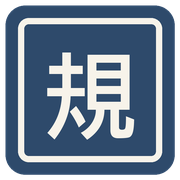
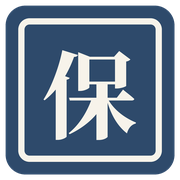
保障資訊通：改名（HK Protection Compass、印章「保」）＋正式公開（關預覽模式）

diff --git a/給理財資訊通的連結卡.html b/給理財資訊通的連結卡.html
@@ -6,25 +6,25 @@
   1. 打開理財資訊通 site/index.html，搵「計完之後，仲可以睇」嗰個 <div class="grid cols-2">
   2. 將下面【中文版】成段貼喺入面任何一張 card 之後
   3. 英文版：site/en/index.html 同一位置貼【英文版】
-  4. 網址：人生規劃通正式公開（合規部批咗）之前，請唔好加，因為預覽版唔應該公開分享
+  4. 網址：保障資訊通正式公開（合規部批咗）之前，請唔好加，因為預覽版唔應該公開分享
      開好 Cloudflare 項目之後，將 https://codychan-life.pages.dev 換成真網址
 
-  印章用靛藍（人生規劃通嘅顏色），一眼分到係另一個網站；class 全部係理財資訊通已有嘅樣式，唔使改 CSS。
+  印章用靛藍（保障資訊通嘅顏色），一眼分到係另一個網站；class 全部係理財資訊通已有嘅樣式，唔使改 CSS。
   ============================================================
 -->
 
 <!-- 【中文版】 -->
 <a class="card tool-card" href="https://codychan-life.pages.dev/" target="_blank" rel="noopener">
-  <span class="seal sm" aria-hidden="true" style="background:#2E4A6B;box-shadow:inset 0 0 0 3px #2E4A6B,inset 0 0 0 4.5px rgba(247,243,234,.9)">規</span>
-  <h3>姊妹網站：人生規劃通 ↗</h3>
+  <span class="seal sm" aria-hidden="true" style="background:#2E4A6B;box-shadow:inset 0 0 0 3px #2E4A6B,inset 0 0 0 4.5px rgba(247,243,234,.9)">保</span>
+  <h3>姊妹網站：保障資訊通 ↗</h3>
   <p>醫療及危疾保費比較、醫療儲備、退休要儲幾多，仲有醫療收費同政策資訊（保障資訊）。</p>
   <span class="go">睇吓 →</span>
 </a>
 
 <!-- 【英文版】 -->
 <a class="card tool-card" href="https://codychan-life.pages.dev/en/" target="_blank" rel="noopener">
-  <span class="seal sm" aria-hidden="true" style="background:#2E4A6B;box-shadow:inset 0 0 0 3px #2E4A6B,inset 0 0 0 4.5px rgba(247,243,234,.9)">規</span>
-  <h3>Sister site: HK Life Compass ↗</h3>
+  <span class="seal sm" aria-hidden="true" style="background:#2E4A6B;box-shadow:inset 0 0 0 3px #2E4A6B,inset 0 0 0 4.5px rgba(247,243,234,.9)">保</span>
+  <h3>Sister site: HK Protection Compass ↗</h3>
   <p>Compare medical and critical illness premiums, size your medical safety net, plan retirement, and check medical costs and policy. A few questions, clear answers.</p>
   <span class="go">Take a look →</span>
 </a>

diff --git a/en/about/index.html b/en/about/index.html
@@ -3,8 +3,8 @@
 <head>
   <meta charset="utf-8">
   <meta name="viewport" content="width=device-width, initial-scale=1, viewport-fit=cover">
-  <title>About Cody Chan and our sources | HK Life Compass</title>
-  <meta name="description" content="HK Life Compass is run by Hong Kong insurance and financial planning consultant Cody Chan. How the information is sourced, checked and updated, how products are compared, and my disclosure.">
+  <title>About Cody Chan and our sources | HK Protection Compass</title>
+  <meta name="description" content="HK Protection Compass is run by Hong Kong insurance and financial planning consultant Cody Chan. How the information is sourced, checked and updated, how products are compared, and my disclosure.">
   <meta name="theme-color" content="#F3ECDD">
   <link rel="stylesheet" href="/assets/css/style.css">
 </head>
@@ -20,7 +20,7 @@
       <div>
         <h2>Who am I?</h2>
         <p>I'm Cody Chan, an insurance and financial planning consultant in Hong Kong. Many employees know they should think about medical cover, retirement and tax, but policy terms are long and the numbers are many, so it's hard to work out on your own.</p>
-        <p>So alongside my everyday money site, HK Money Compass, I built HK Life Compass. It focuses on medical cover, critical illness, a medical safety net and retirement. To talk it through, find me on IG <a href="https://www.instagram.com/codychan813/" target="_blank" rel="noopener">@codychan813</a> or <a href="/en/book/">book a free chat</a>.</p>
+        <p>So alongside my everyday money site, HK Money Compass, I built HK Protection Compass. It focuses on medical cover, critical illness, a medical safety net and retirement. To talk it through, find me on IG <a href="https://www.instagram.com/codychan813/" target="_blank" rel="noopener">@codychan813</a> or <a href="/en/book/">book a free chat</a>.</p>
       </div>
       <div data-avatar></div>
     </section>

diff --git a/about/index.html b/about/index.html
@@ -3,8 +3,8 @@
 <head>
   <meta charset="utf-8">
   <meta name="viewport" content="width=device-width, initial-scale=1, viewport-fit=cover">
-  <title>關於 Cody Chan 及資料來源｜香港地一站式人生規劃通</title>
-  <meta name="description" content="人生規劃通由香港保險理財顧問 Cody Chan 營運。了解網站資料來源、核實及更新方法、產品比較原則同利益申報。">
+  <title>關於 Cody Chan 及資料來源｜香港地一站式保障資訊通</title>
+  <meta name="description" content="保障資訊通由香港保險理財顧問 Cody Chan 營運。了解網站資料來源、核實及更新方法、產品比較原則同利益申報。">
   <meta name="theme-color" content="#F3ECDD">
   <link rel="stylesheet" href="/assets/css/style.css">
 </head>
@@ -20,7 +20,7 @@
       <div>
         <h2>我係邊個？</h2>
         <p>我係 Cody Chan，香港保險理財顧問。好多打工仔知道醫療保障、退休、交稅要諗，但產品條款長、數字多，好難自己計清楚。</p>
-        <p>所以我喺日常理財網站「理財資訊通」之外，再整咗呢個「人生規劃通」：專講醫療保障、危疾、醫療儲備同退休。想再傾，可以喺 IG <a href="https://www.instagram.com/codychan813/" target="_blank" rel="noopener">@codychan813</a> 搵我，或者<a href="/book/">預約免費傾談</a>。</p>
+        <p>所以我喺日常理財網站「理財資訊通」之外，再整咗呢個「保障資訊通」：專講醫療保障、危疾、醫療儲備同退休。想再傾，可以喺 IG <a href="https://www.instagram.com/codychan813/" target="_blank" rel="noopener">@codychan813</a> 搵我，或者<a href="/book/">預約免費傾談</a>。</p>
       </div>
       <div data-avatar></div>
     </section>

diff --git a/en/index.html b/en/index.html
@@ -3,7 +3,7 @@
 <head>
   <meta charset="utf-8">
   <meta name="viewport" content="width=device-width, initial-scale=1, viewport-fit=cover">
-  <title>HK Life Compass by Cody Chan | Medical, critical illness and retirement planning tools</title>
+  <title>HK Protection Compass by Cody Chan | Medical, critical illness and retirement planning tools</title>
   <meta name="description" content="Planning tools for Hong Kong employees: compare medical and critical illness premiums, size your medical safety net, see how much you need to retire, and check Hong Kong medical costs and policy. Everything is calculated on your own device.">
   <meta name="theme-color" content="#F3ECDD">
   <link rel="stylesheet" href="/assets/css/style.css">
@@ -12,10 +12,10 @@
 <main>
   <div class="wrap stack">
     <section class="hero landing-hero">
-      <div class="kicker">HK LIFE COMPASS</div>
+      <div class="kicker">HK PROTECTION COMPASS</div>
       <h1>Hospital bills, critical illness, retirement:<br>have you done the maths?</h1>
       <p class="lead">Is your work medical cover enough? Between jobs you actually have none. How critical illness plans differ, how much to save for retirement: answer a few questions and see. No big talk, just the numbers.</p>
-      <div class="by"><span data-seal="規"></span>By Cody Chan · Insurance and financial planning consultant, Hong Kong</div>
+      <div class="by"><span data-seal="保"></span>By Cody Chan · Insurance and financial planning consultant, Hong Kong</div>
       <div class="hero-actions">
         <a class="btn shu lg" href="#start">Not sure where to start? 3 questions →</a>
         <a class="btn secondary lg" href="/en/book/">Book a free chat</a>

diff --git a/index.html b/index.html
@@ -3,7 +3,7 @@
 <head>
   <meta charset="utf-8">
   <meta name="viewport" content="width=device-width, initial-scale=1, viewport-fit=cover">
-  <title>香港地一站式人生規劃通 By Cody Chan｜醫療、危疾、退休規劃工具</title>
+  <title>香港地一站式保障資訊通 By Cody Chan｜醫療、危疾、退休規劃工具</title>
   <meta name="description" content="香港打工仔嘅人生規劃工具：醫療及危疾保費比較、醫療儲備、退休要儲幾多，仲有香港醫療收費同政策資訊。答幾條問題就有清楚結果，資料只喺你部機計。">
   <meta name="theme-color" content="#F3ECDD">
   <link rel="stylesheet" href="/assets/css/style.css">
@@ -12,10 +12,10 @@
 <main>
   <div class="wrap stack">
     <section class="hero landing-hero">
-      <div class="kicker">香港地一站式人生規劃通</div>
+      <div class="kicker">香港地一站式保障資訊通</div>
       <h1>入院、危疾、退休<br>你計清楚未？</h1>
       <p class="lead">公司醫保夠唔夠用？轉工嗰陣其實係冇保障㗎。危疾計劃有咩分別、退休要儲幾多，答幾條問題就有答案。唔講大道理，直接計。</p>
-      <div class="by"><span data-seal="規"></span>By Cody Chan・香港保險理財顧問</div>
+      <div class="by"><span data-seal="保"></span>By Cody Chan・香港保險理財顧問</div>
       <div class="hero-actions">
         <a class="btn shu lg" href="#start">唔知由邊度開始？答 3 條問題 →</a>
         <a class="btn secondary lg" href="/book/">預約免費傾談</a>

diff --git a/assets/js/config.js b/assets/js/config.js
@@ -3,15 +3,15 @@
 // （網站名稱、IG、姊妹網站亦要喺 scripts/build.py 頂部同步改）
 // ============================================================
 export const SITE = {
-  name: '香港地一站式人生規劃通',
-  shortName: '人生規劃通',
-  nameEn: 'HK Life Compass',
+  name: '香港地一站式保障資訊通',
+  shortName: '保障資訊通',
+  nameEn: 'HK Protection Compass',
   byline: 'By Cody Chan',
   ig: 'codychan813',
   phone: '46254001',
   whatsapp: '85246254001',
-  whatsappText: '你好 Cody，我喺人生規劃通網站見到，想預約免費傾談。',
-  whatsappTextEn: 'Hi Cody, I found you on HK Life Compass and would like to book a free chat.',
+  whatsappText: '你好 Cody，我喺保障資訊通網站見到，想預約免費傾談。',
+  whatsappTextEn: 'Hi Cody, I found you on HK Protection Compass and would like to book a free chat.',
   calendarUrl: 'https://calendar.app.google/QXA112toHCRAD5qr9',   // 同理財資訊通同一條
   sisterName: '理財資訊通',
   sisterNameEn: 'HK Money Compass',

diff --git a/en/insurance/index.html b/en/insurance/index.html
@@ -3,7 +3,7 @@
 <head>
   <meta charset="utf-8">
   <meta name="viewport" content="width=device-width, initial-scale=1, viewport-fit=cover">
-  <title>Hong Kong medical costs 2026: public hospital fees, medical inflation, cancer figures | HK Life Compass</title>
+  <title>Hong Kong medical costs 2026: public hospital fees, medical inflation, cancer figures | HK Protection Compass</title>
   <meta name="description" content="Hong Kong's new 2026 public hospital fees, medical inflation forecasts, the price gap for private hospital procedures, the latest cancer statistics and healthcare policy updates, each with its official source and date.">
   <meta name="theme-color" content="#F3ECDD">
   <link rel="stylesheet" href="/assets/css/style.css">

diff --git a/insurance/index.html b/insurance/index.html
@@ -3,7 +3,7 @@
 <head>
   <meta charset="utf-8">
   <meta name="viewport" content="width=device-width, initial-scale=1, viewport-fit=cover">
-  <title>香港醫療費用 2026：公立醫院收費、醫療通脹、癌症數字｜香港地一站式人生規劃通</title>
+  <title>香港醫療費用 2026：公立醫院收費、醫療通脹、癌症數字｜香港地一站式保障資訊通</title>
   <meta name="description" content="香港公立醫院 2026 年新收費、醫療通脹預測、私家醫院手術收費差距、最新癌症統計同政府醫療政策更新，每項附官方來源同資料日期。">
   <meta name="theme-color" content="#F3ECDD">
   <link rel="stylesheet" href="/assets/css/style.css">

diff --git a/en/compare/index.html b/en/compare/index.html
@@ -3,7 +3,7 @@
 <head>
   <meta charset="utf-8">
   <meta name="viewport" content="width=device-width, initial-scale=1, viewport-fit=cover">
-  <title>Compare medical and critical illness insurance premiums | HK Life Compass</title>
+  <title>Compare medical and critical illness insurance premiums | HK Protection Compass</title>
   <meta name="description" content="Enter your age and sex to see annual premiums for VHIS Standard Plans (official Health Bureau figures) and critical illness plans, benefit limits, how premiums change with age and total premiums. Factual listing with sources and update dates.">
   <meta name="theme-color" content="#F3ECDD">
   <link rel="stylesheet" href="/assets/css/style.css">

diff --git a/en/disclaimer/index.html b/en/disclaimer/index.html
@@ -3,8 +3,8 @@
 <head>
   <meta charset="utf-8">
   <meta name="viewport" content="width=device-width, initial-scale=1, viewport-fit=cover">
-  <title>Disclaimer and privacy policy | HK Life Compass</title>
-  <meta name="description" content="HK Life Compass disclaimer, product comparison principles, privacy policy and personal data collection statement.">
+  <title>Disclaimer and privacy policy | HK Protection Compass</title>
+  <meta name="description" content="HK Protection Compass disclaimer, product comparison principles, privacy policy and personal data collection statement.">
   <meta name="theme-color" content="#F3ECDD">
   <link rel="stylesheet" href="/assets/css/style.css">
 </head>

diff --git a/compare/index.html b/compare/index.html
@@ -3,7 +3,7 @@
 <head>
   <meta charset="utf-8">
   <meta name="viewport" content="width=device-width, initial-scale=1, viewport-fit=cover">
-  <title>醫療及危疾保險比較、保費查詢｜香港地一站式人生規劃通</title>
+  <title>醫療及危疾保險比較、保費查詢｜香港地一站式保障資訊通</title>
   <meta name="description" content="輸入年齡、性別，即睇自願醫保標準計劃（醫務衞生局官方保費）同危疾計劃嘅年保費、保障限額、保費隨年齡變化同累計總保費。客觀資料陳列，附來源及更新日期。">
   <meta name="theme-color" content="#F3ECDD">
   <link rel="stylesheet" href="/assets/css/style.css">

diff --git a/disclaimer/index.html b/disclaimer/index.html
@@ -3,8 +3,8 @@
 <head>
   <meta charset="utf-8">
   <meta name="viewport" content="width=device-width, initial-scale=1, viewport-fit=cover">
-  <title>免責聲明及私隱政策｜香港地一站式人生規劃通</title>
-  <meta name="description" content="人生規劃通嘅免責聲明、產品比較原則、私隱政策及個人資料收集聲明。">
+  <title>免責聲明及私隱政策｜香港地一站式保障資訊通</title>
+  <meta name="description" content="保障資訊通嘅免責聲明、產品比較原則、私隱政策及個人資料收集聲明。">
   <meta name="theme-color" content="#F3ECDD">
   <link rel="stylesheet" href="/assets/css/style.css">
 </head>
